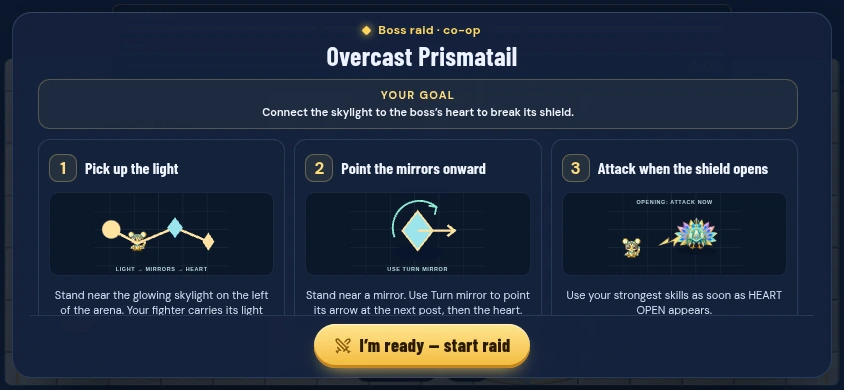
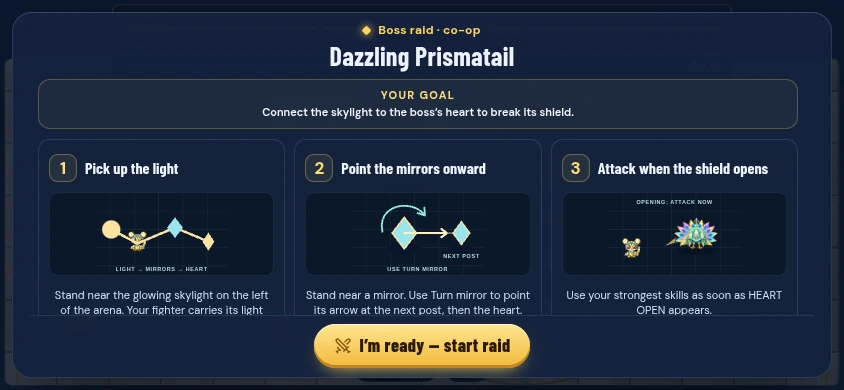
Fix the mirror guide turn arrow and show its next target

diff --git a/apps/client/src/raid-guide-art.ts b/apps/client/src/raid-guide-art.ts
@@ -76,7 +76,18 @@ export function raidGuideScene(
   if (kind === "runes") art = `<circle cx="48" cy="74" r="25" fill="#92efdb" fill-opacity=".13" stroke="#92efdb" stroke-width="2"/><circle cx="48" cy="74" r="10" fill="none" stroke="#92efdb" stroke-width="3"/><circle cx="158" cy="74" r="25" fill="#ffdf8d" fill-opacity=".13" stroke="#ffdf8d" stroke-width="2"/><path d="m158 60 4 8 10 2-7 6 1 10-8-5-8 5 1-10-7-6 10-2Z" fill="#ffdf8d"/><path d="M82 74h40m-8-6 8 6-8 6" fill="none" stroke="#e4d6ff" stroke-width="3"/><text x="110" y="128">ENTER EACH PAD IN ORDER</text>`;
   if (kind === "quiet") art = `<rect x="10" y="20" width="200" height="88" rx="12" fill="#ff647f" opacity=".15"/><ellipse cx="123" cy="76" rx="54" ry="32" fill="#92efdb" fill-opacity=".2" stroke="#92efdb" stroke-width="3"/>${hero(98, 40, "quiet")}<path d="M47 73h29m-8-7 8 7-8 7" fill="none" stroke="#92efdb" stroke-width="3"/><text x="110" y="128">FOLLOW THE QUIET ZONE</text>`;
   if (kind === "relay") art = `<circle cx="27" cy="60" r="15" fill="#ffe2a0"/>${hero(49, 55, "relay")}<path d="M27 60 70 83 132 57 187 80" fill="none" stroke="#ffe2a0" stroke-width="4"/><path d="m132 40 13 17-13 17-13-17Z" fill="#9ae4ee"/><path d="m187 65 10 15-10 15-10-15Z" fill="#ffe2a0"/><text x="110" y="128">LIGHT → MIRRORS → HEART</text>`;
-  if (kind === "mirror") art = `<ellipse cx="110" cy="98" rx="42" ry="12" fill="#08152b"/><path d="m110 30 25 32-25 32-25-32Z" fill="#9ae4ee" stroke="#ffe2a0" stroke-width="3"/><path d="M110 62h61m-12-9 12 9-12 9" stroke="#ffe2a0" stroke-width="4" fill="none"/><path d="M72 73a44 44 0 0 1 69-50m-13-2 13 2-3 13" stroke="#8cebd1" stroke-width="3" fill="none"/><text x="110" y="128">USE TURN MIRROR</text>`;
+  if (kind === "mirror") {
+    // The curved arrow's head follows its clockwise tangent. Keep it separate
+    // from the outgoing arrow, which points all the way to a visible next post.
+    art = `<ellipse cx="88" cy="92" rx="29" ry="8" fill="#08152b"/>
+      <ellipse cx="182" cy="92" rx="20" ry="6" fill="#08152b"/>
+      <path d="M88 66H182" fill="none" stroke="#ffe2a0" stroke-width="3" stroke-opacity=".45"/>
+      <path d="m88 40 20 26-20 26-20-26Z" fill="#9ae4ee" stroke="#ffe2a0" stroke-width="2.5"/>
+      <path d="m182 47 14 19-14 19-14-19Z" fill="#9ae4ee" stroke="#ffe2a0" stroke-width="2"/>
+      <path d="M88 66H158m-9-7 9 7-9 7" fill="none" stroke="#fff1c2" stroke-width="3.5" stroke-linecap="round" stroke-linejoin="round"/>
+      <path data-mirror-turn d="M52 64C42 19 101 8 122 37M110 33l12 4-1-13" fill="none" stroke="#8cebd1" stroke-width="3" stroke-linecap="round" stroke-linejoin="round"/>
+      <text x="182" y="107">NEXT POST</text><text x="110" y="128">USE TURN MIRROR</text>`;
+  }
   if (kind === "glare") art = `<path d="M70 43q40-35 80 0-40 35-80 0Z" fill="#ffe2a0" fill-opacity=".2" stroke="#ffe2a0" stroke-width="3"/><circle cx="110" cy="43" r="11" fill="#ffe2a0"/>${hero(89, 65, "glare")}<path d="M111 90v21m-7-8 7 8 7-8" fill="none" stroke="#8cebd1" stroke-width="3"/><text x="110" y="128">TURN AWAY FROM GLARE</text>`;
   if(kind === "braziers") art = `<path d="M110 30 45 100h130Z" fill="none" stroke="#ffcf91" stroke-width="2" stroke-dasharray="5 4"/>${[[110,30],[45,100],[175,100]].map(([x,y])=>`<circle cx="${x}" cy="${y}" r="18" fill="#ffad6c" fill-opacity=".2" stroke="#ffcf91"/><path d="M${x-8} ${y+3}q-4-8 8-19-2 8 6 9 8 12-14 10Z" fill="#ffcf91"/>`).join("")}${hero(24,60,"brazier")}<text x="110" y="128">STAND INSIDE · 1.5s</text>`;
   if(kind === "ground-bird") art = `<g transform="translate(65 52) scale(.75)">${raidGuideSprite("emberwing")}</g><path d="M110 42v50m-8-9 8 9 8-9" stroke="#ffcf91" stroke-width="3" fill="none"/>${hero(151,65,"fire")}<text x="110" y="128">ALL THREE LIT → GROUNDED</text>`;
